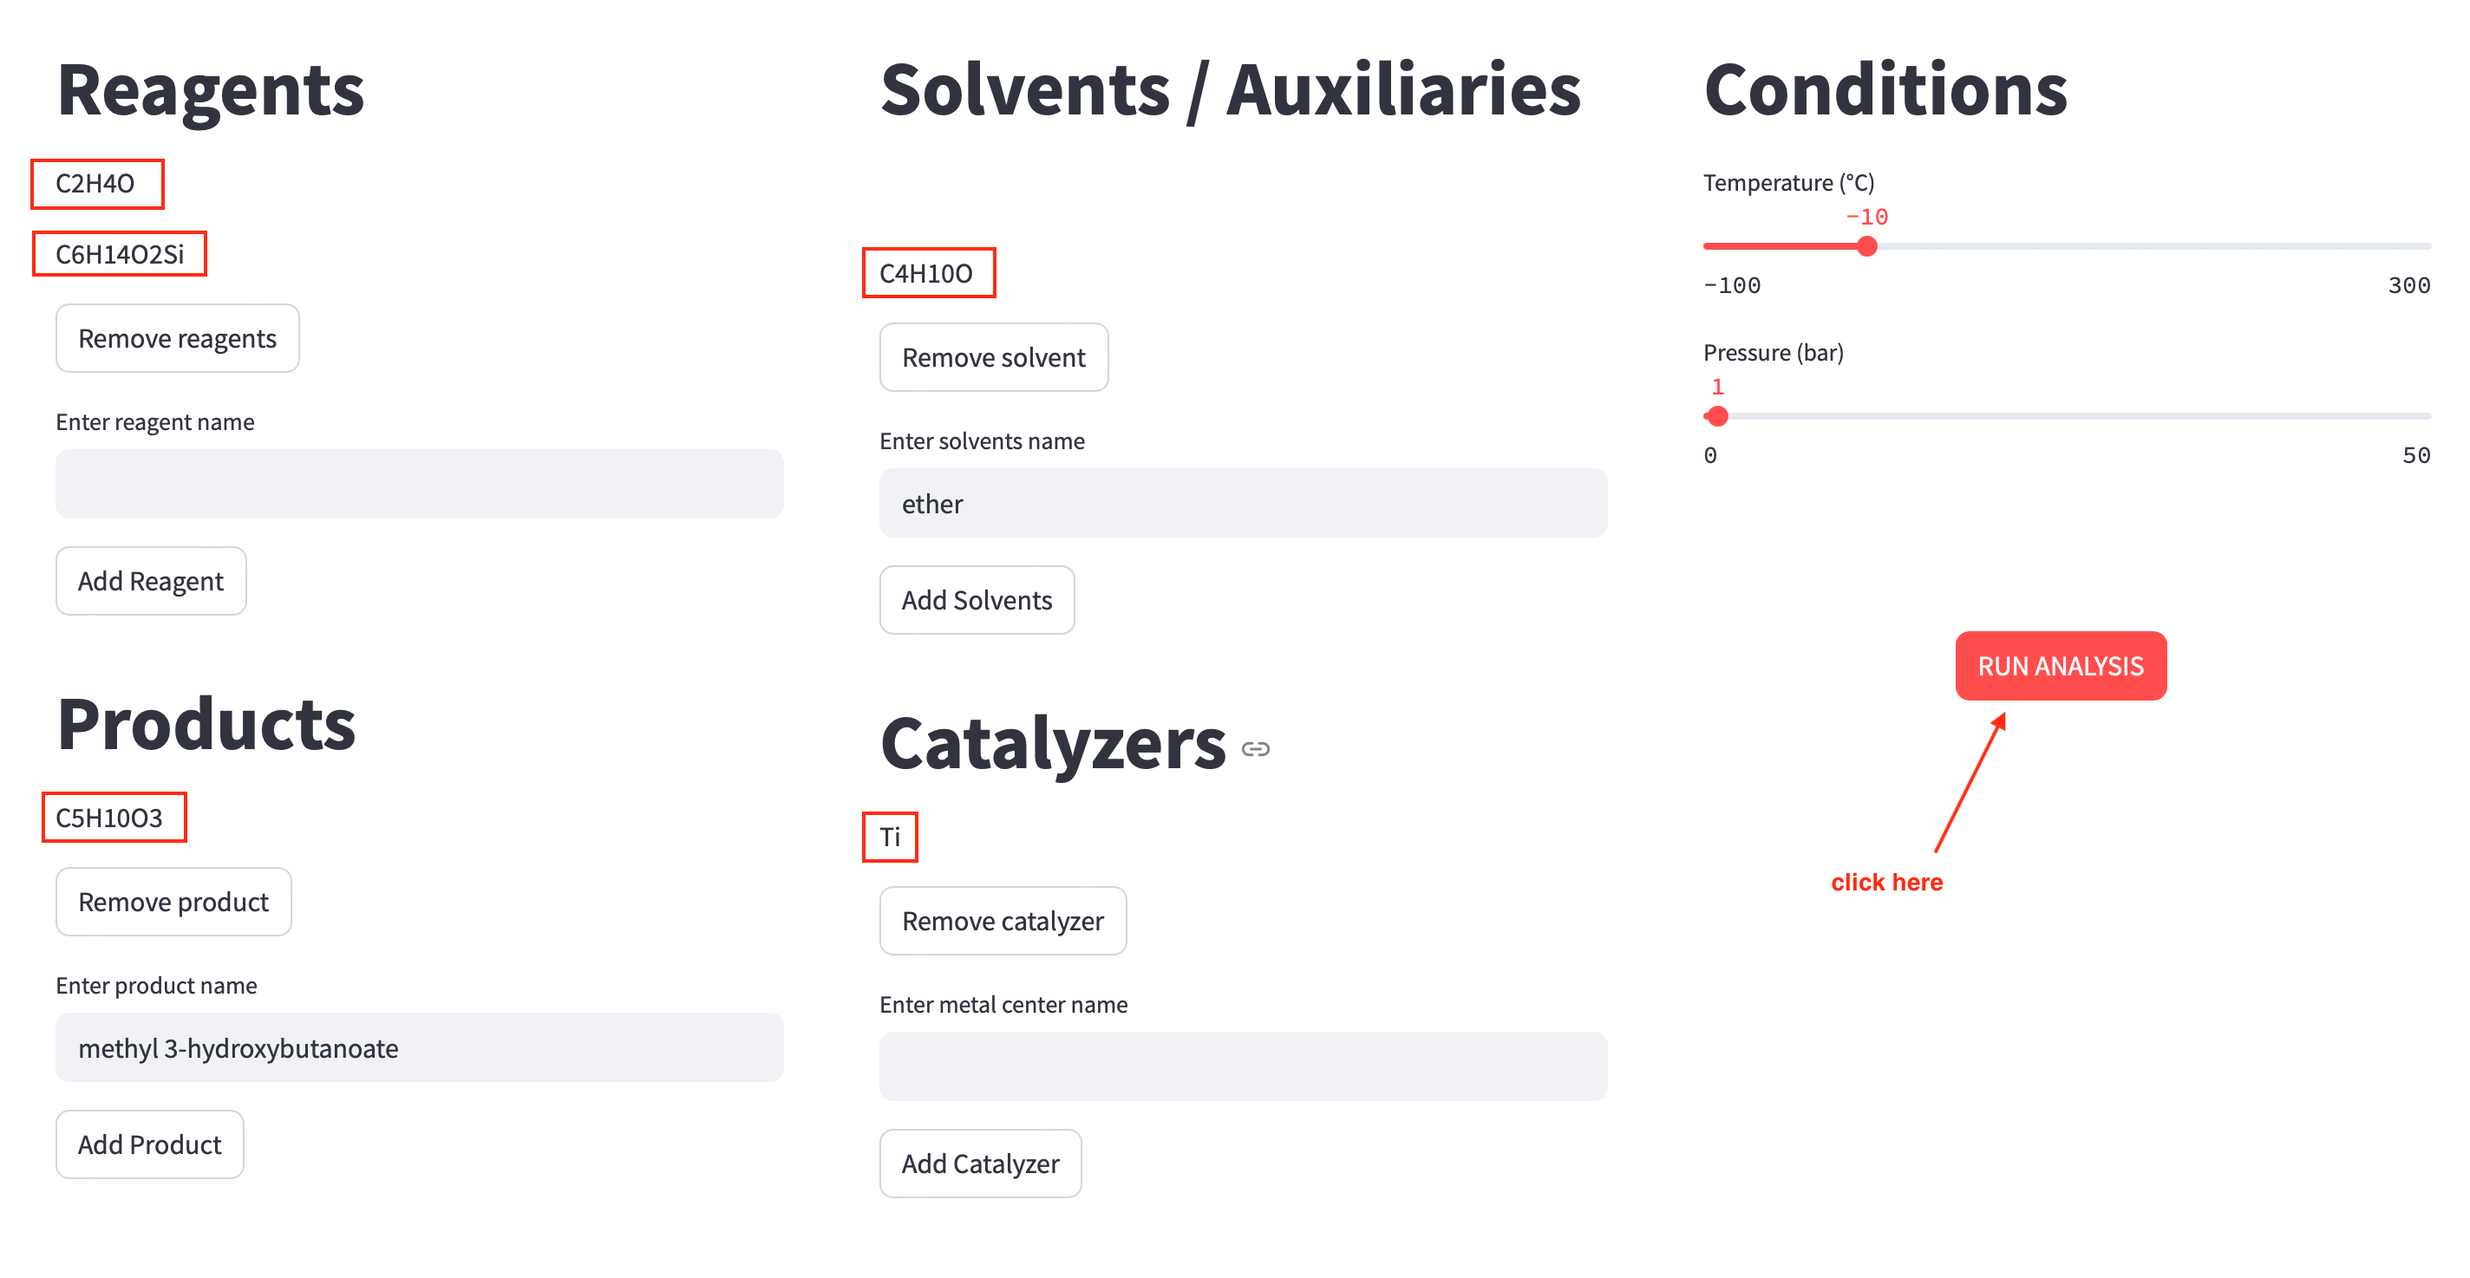
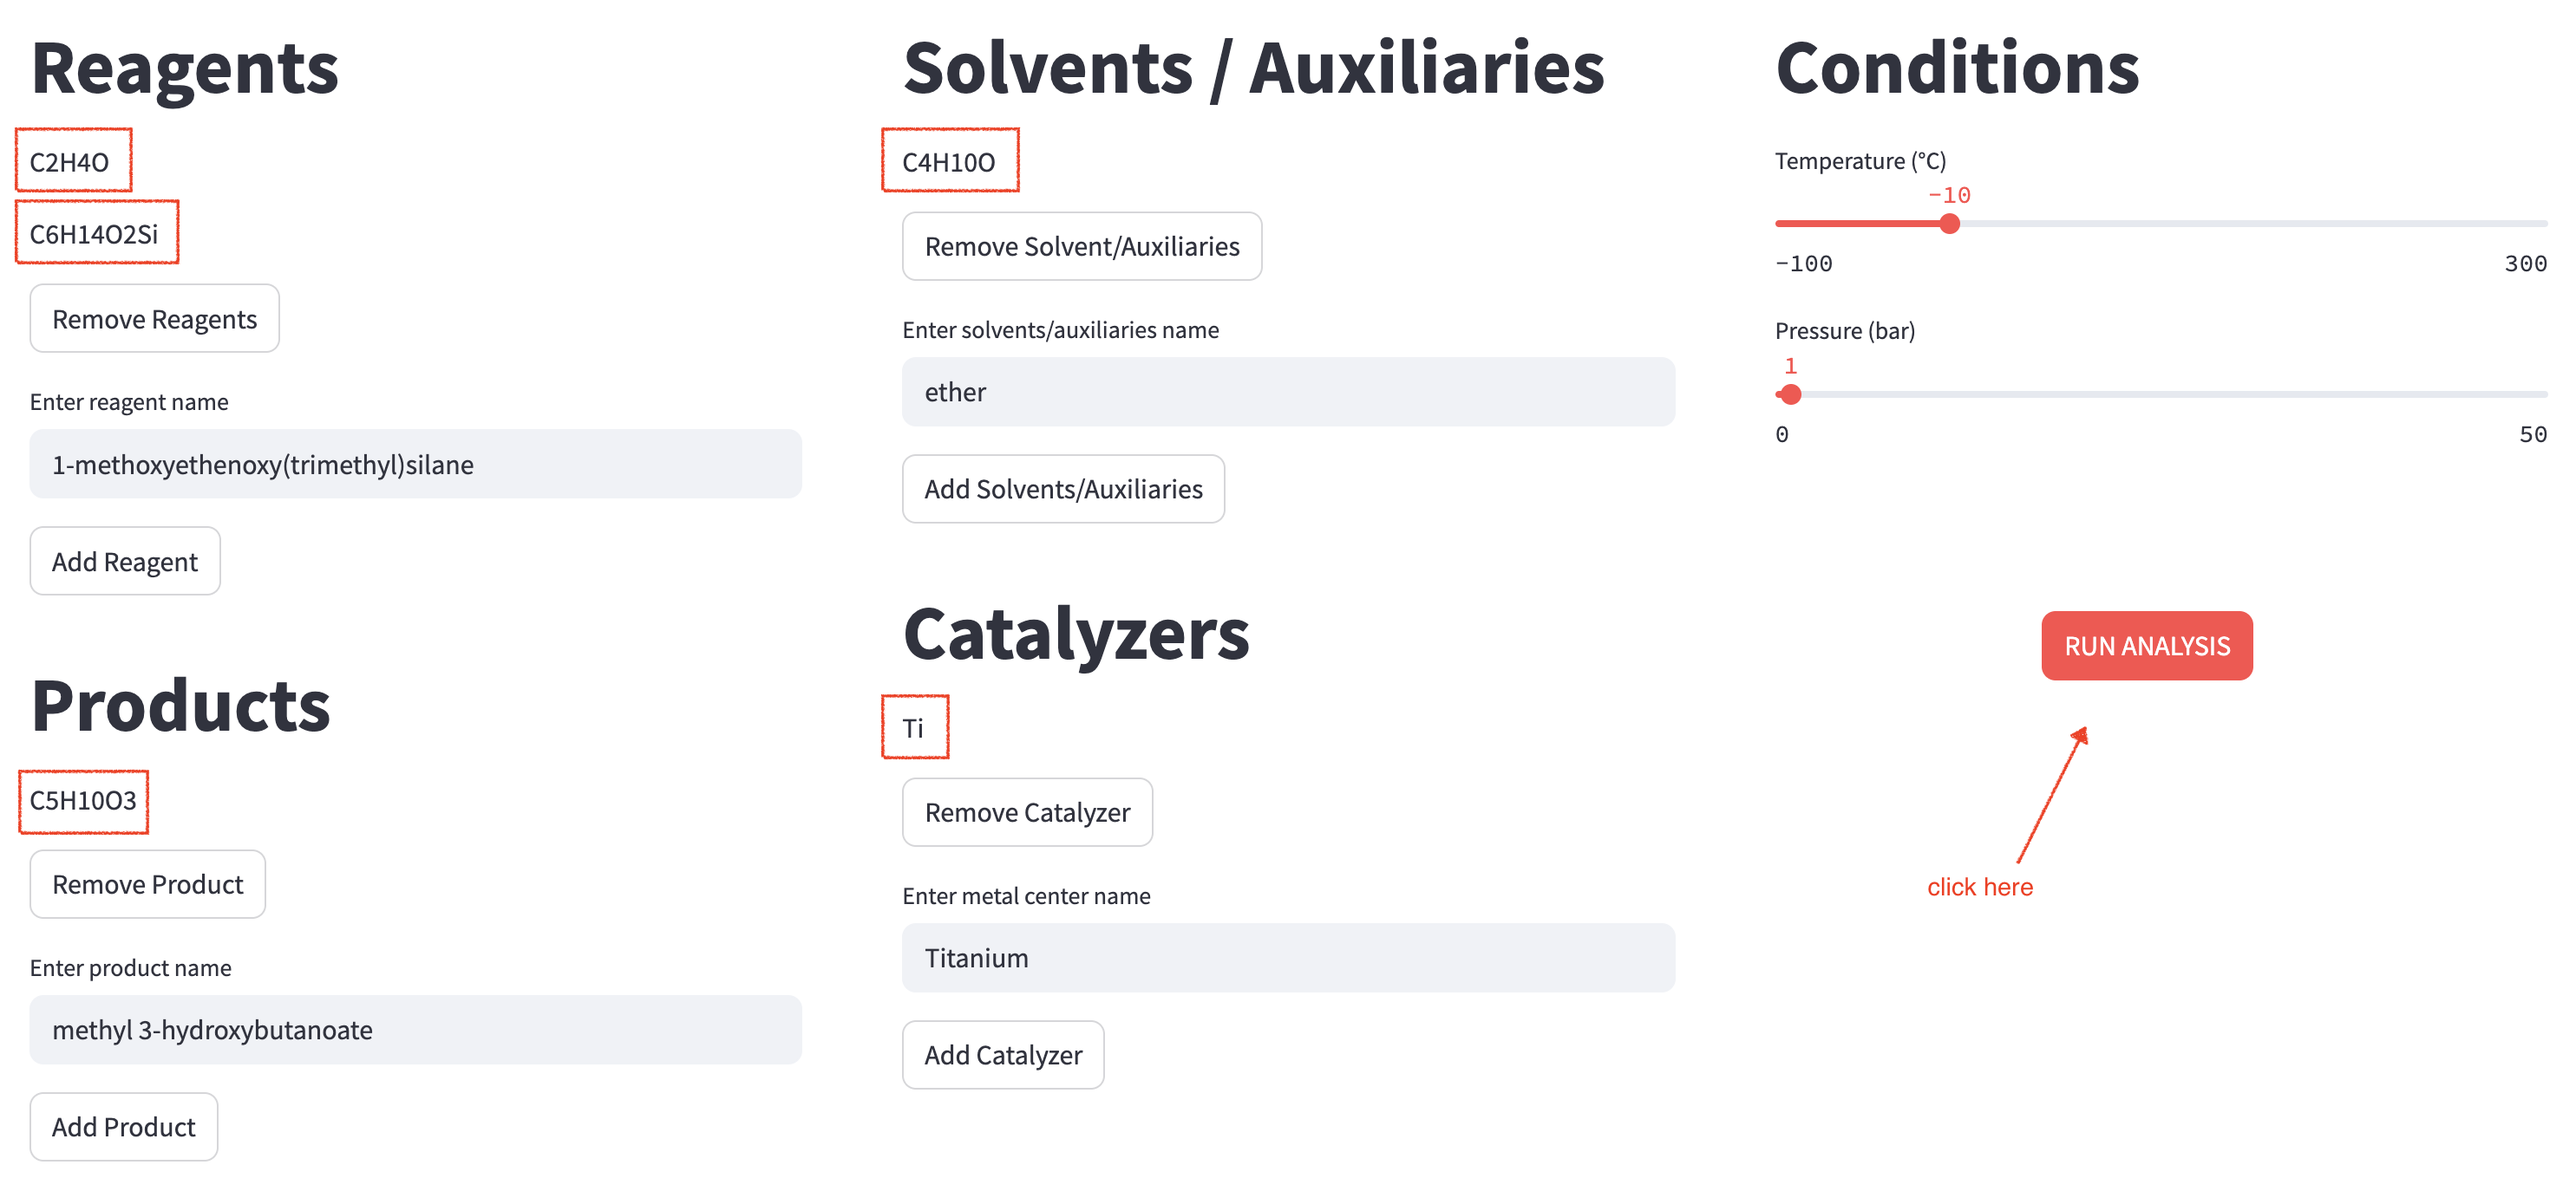
Notebook improvements

diff --git a/src/green_chemistry/script_interface.py b/src/green_chemistry/script_interface.py
@@ -250,7 +250,7 @@ with st.container():
         else:    
             for reagent in st.session_state.reagents:
                 st.write(reagent.get("MolecularFormula"))
-            if st.button("Remove reagents"):
+            if st.button("Remove Reagents"):
                 st.session_state.reagents.pop()
                 st.rerun() 
 
@@ -269,7 +269,7 @@ with st.container():
         else:    
             for product in st.session_state.product:
                 st.write(product.get("MolecularFormula"))
-            if st.button("Remove product"):
+            if st.button("Remove Product"):
                 st.session_state.product.pop()
                 st.rerun()            
 
@@ -286,16 +286,16 @@ with st.container():
         st.write('# Solvents / Auxiliaries')
         if "solvents" not in st.session_state:
             st.session_state.solvents = []
-            st.write("No solvents found. Please add some solvents.")
+            st.write("No solvents/auxiliaries found. Please add some solvents.")
         else:    
             for solvent in st.session_state.solvents:
                 st.write(solvent.get("MolecularFormula"))
-            if st.button("Remove solvent"):
+            if st.button("Remove Solvent/Auxiliaries"):
                 st.session_state.solvents.pop()
                 st.rerun() 
 
-        st.text_input("Enter solvents name", key="solvents_name")
-        if st.button("Add Solvents"):
+        st.text_input("Enter solvents/auxiliaries name", key="solvents_name")
+        if st.button("Add Solvents/Auxiliaries"):
             solvents_name = st.session_state.solvents_name
             add_solvents(solvents_name)
             st.rerun()
@@ -309,7 +309,7 @@ with st.container():
         else:
             for catalyzer in st.session_state.catalyzer:
                 st.write(catalyzer.get("MolecularFormula"))
-                if st.button("Remove catalyzer"):
+                if st.button("Remove Catalyzer"):
                     st.session_state.catalyzer.pop()
                     st.rerun()
                            
